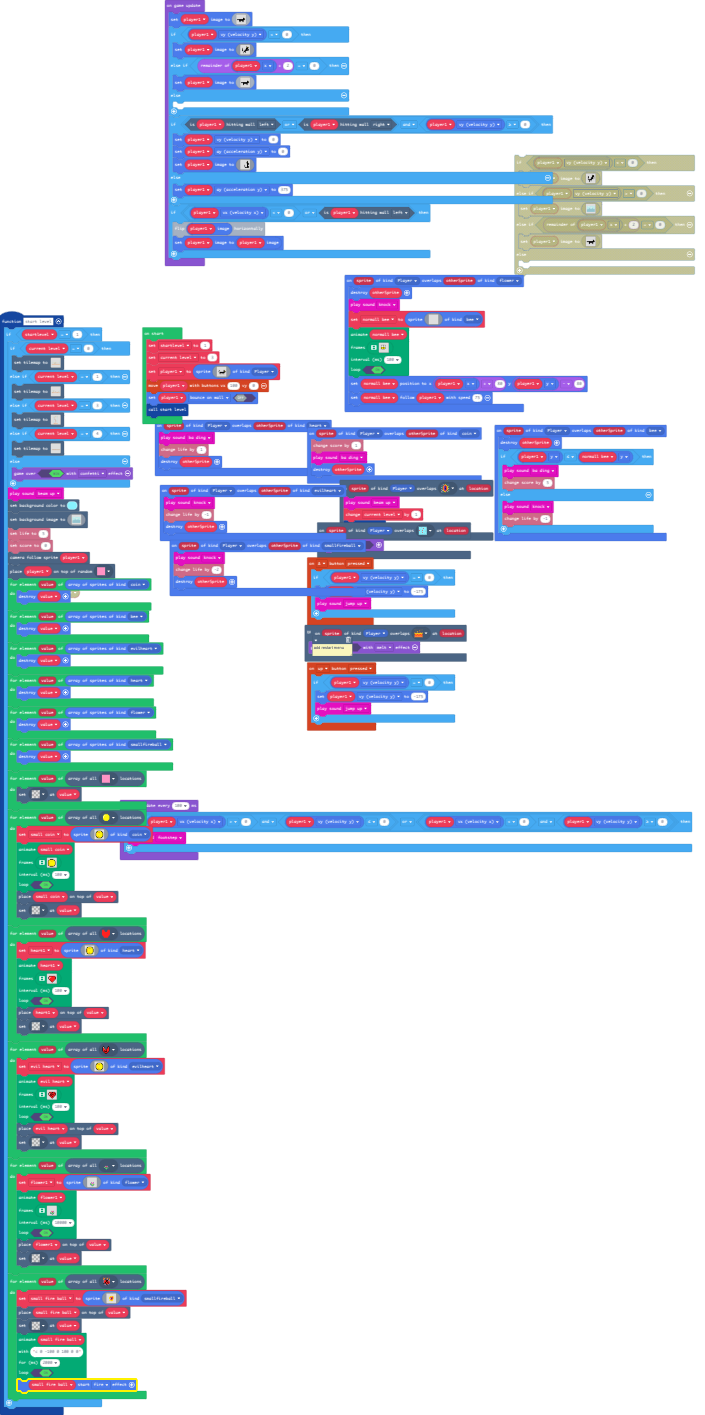
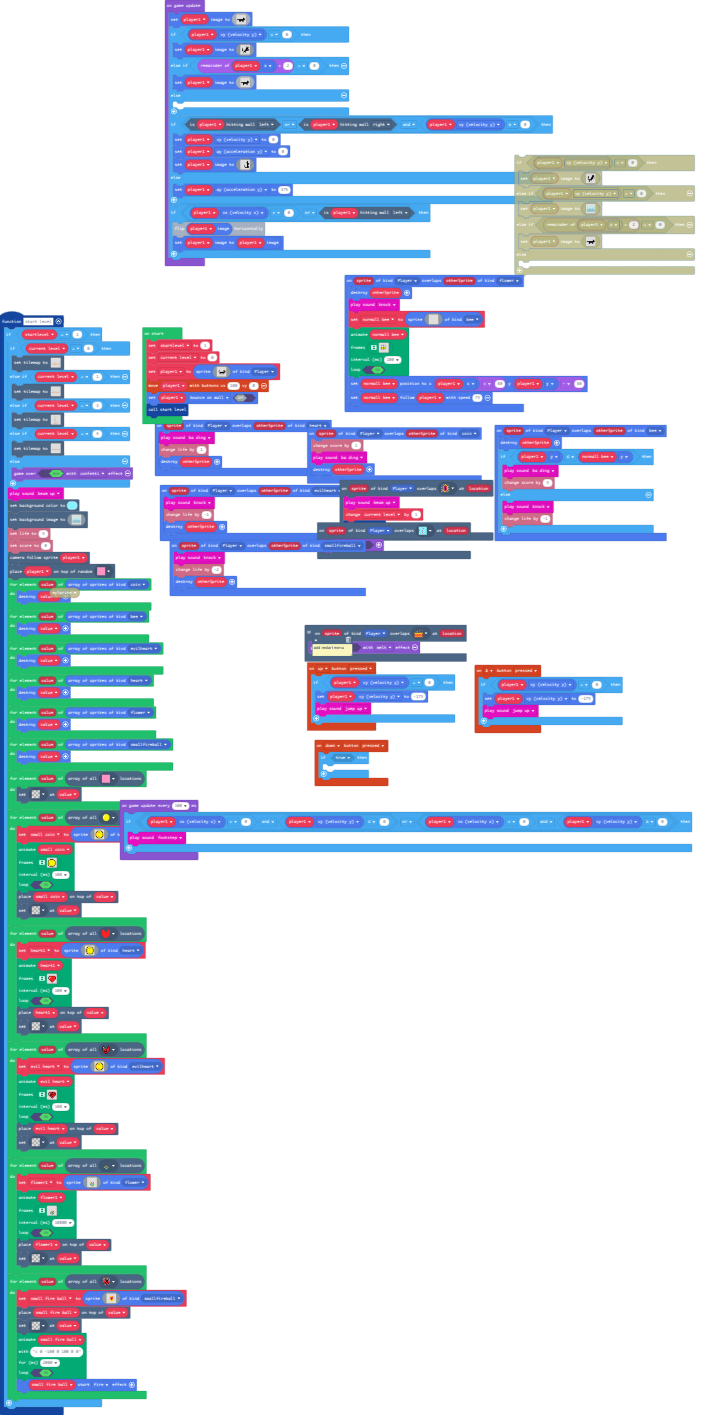
Update main.blocks, main.ts

diff --git a/main.ts b/main.ts
@@ -1133,6 +1133,11 @@ sprites.onOverlap(SpriteKind.Player, SpriteKind.evilheart, function (sprite, oth
     info.changeLifeBy(-1)
     otherSprite.destroy()
 })
+controller.down.onEvent(ControllerButtonEvent.Pressed, function () {
+    if (true) {
+    	
+    }
+})
 sprites.onOverlap(SpriteKind.Player, SpriteKind.bee, function (sprite, otherSprite) {
     otherSprite.destroy()
     if (player1.y <= normall_bee.y) {
@@ -1153,7 +1158,7 @@ let player1: Sprite = null
 let current_level = 0
 let startlevel = 0
 startlevel = 1
-current_level = 3
+current_level = 0
 player1 = sprites.create(img`
     . . . . . . . . . . . . . . . . 
     . . . . . . . . . . . . . . . . 
